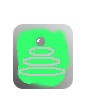
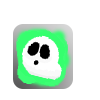
levita tu varita de mentita

Changed region(s): [[0.15, 0.33, 0.66, 0.84], [0.15, 0.36, 0.18, 0.54], [0.3, 0.81, 0.33, 0.84]]

diff --git a/src/Mundo.cpp b/src/Mundo.cpp
@@ -91,6 +91,8 @@ Mundo::Mundo()
     txt_pwupHUD_velocidad -> loadFromFile("assets/hud/powerups/Hud_velocidad.png");
     txt_pwupHUD_vida = new Texture();
     txt_pwupHUD_vida -> loadFromFile("assets/hud/powerups/Hud_vida.png");
+    txt_pwupHUD_levitar = new Texture();
+    txt_pwupHUD_levitar -> loadFromFile("assets/hud/powerups/Hud_levitar.png");
 
     pwupHUD_ative = new RectangleShape({50,45});
     pwupHUD_ative -> setTexture(txt_pwupHUD_empty);
@@ -721,6 +723,7 @@ cout << p1-> checkEstado() << endl;
     if(p1-> checkEstado() == 0) pwupHUD_ative -> setTexture(txt_pwupHUD_empty);
     if(p1-> checkEstado() == 1) pwupHUD_ative -> setTexture(txt_pwupHUD_velocidad);
     if(p1-> checkEstado() == 2) pwupHUD_ative -> setTexture(txt_pwupHUD_escudo);
+    if(p1-> checkEstado() == 3) pwupHUD_ative -> setTexture(txt_pwupHUD_levitar);
     if(p1-> checkEstado() == 10)
     {}
 

diff --git a/include/Mundo.h b/include/Mundo.h
@@ -91,7 +91,7 @@ private:
 
     RectangleShape * pwupHUD_ative;
     Texture * txt_pwupHUD_empty,* txt_pwupHUD_escudo,* txt_pwupHUD_invisibilidad,
-    * txt_pwupHUD_tiempo,* txt_pwupHUD_velocidad,* txt_pwupHUD_vida;
+    * txt_pwupHUD_tiempo,* txt_pwupHUD_velocidad,* txt_pwupHUD_vida,* txt_pwupHUD_levitar;
     CircleShape * minimap_player, * minimap_pizza;
 
     /**ELEMENTOS**/
